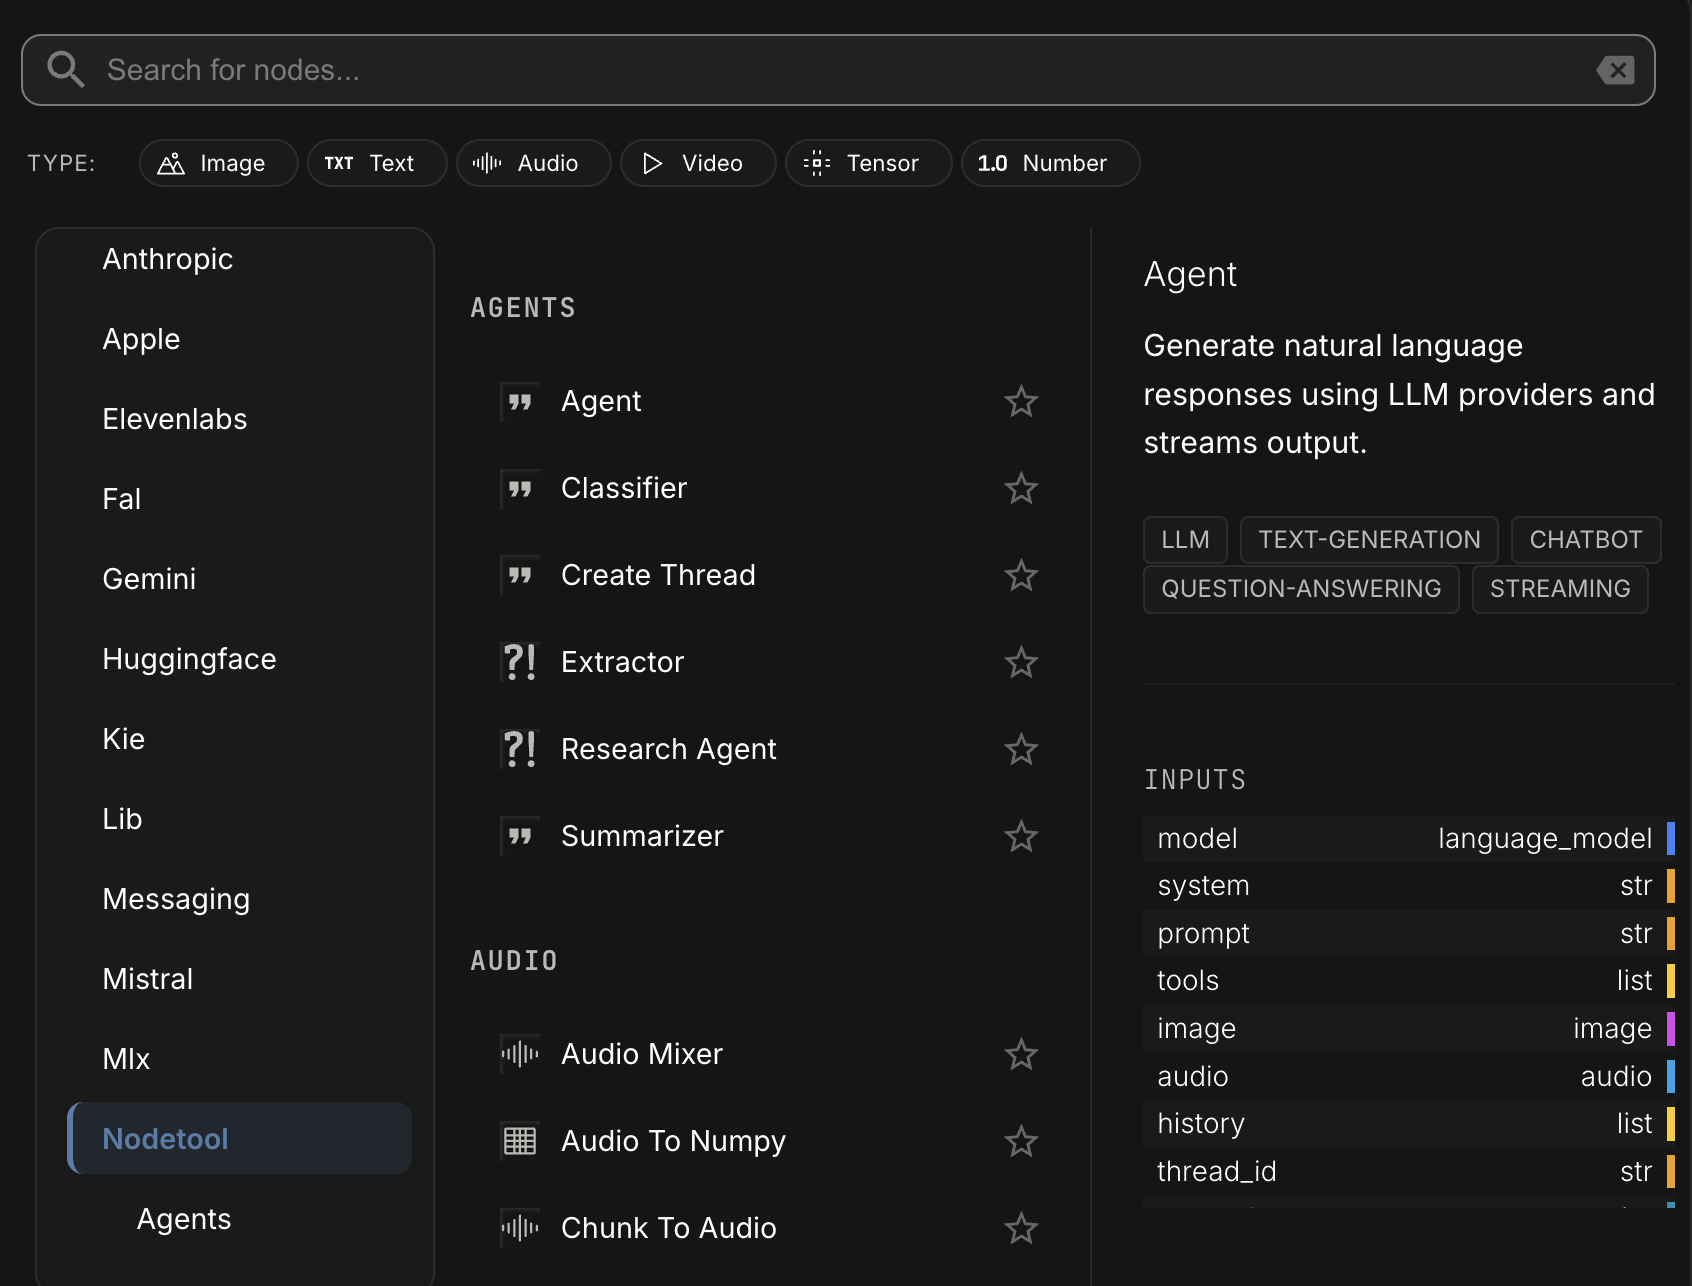
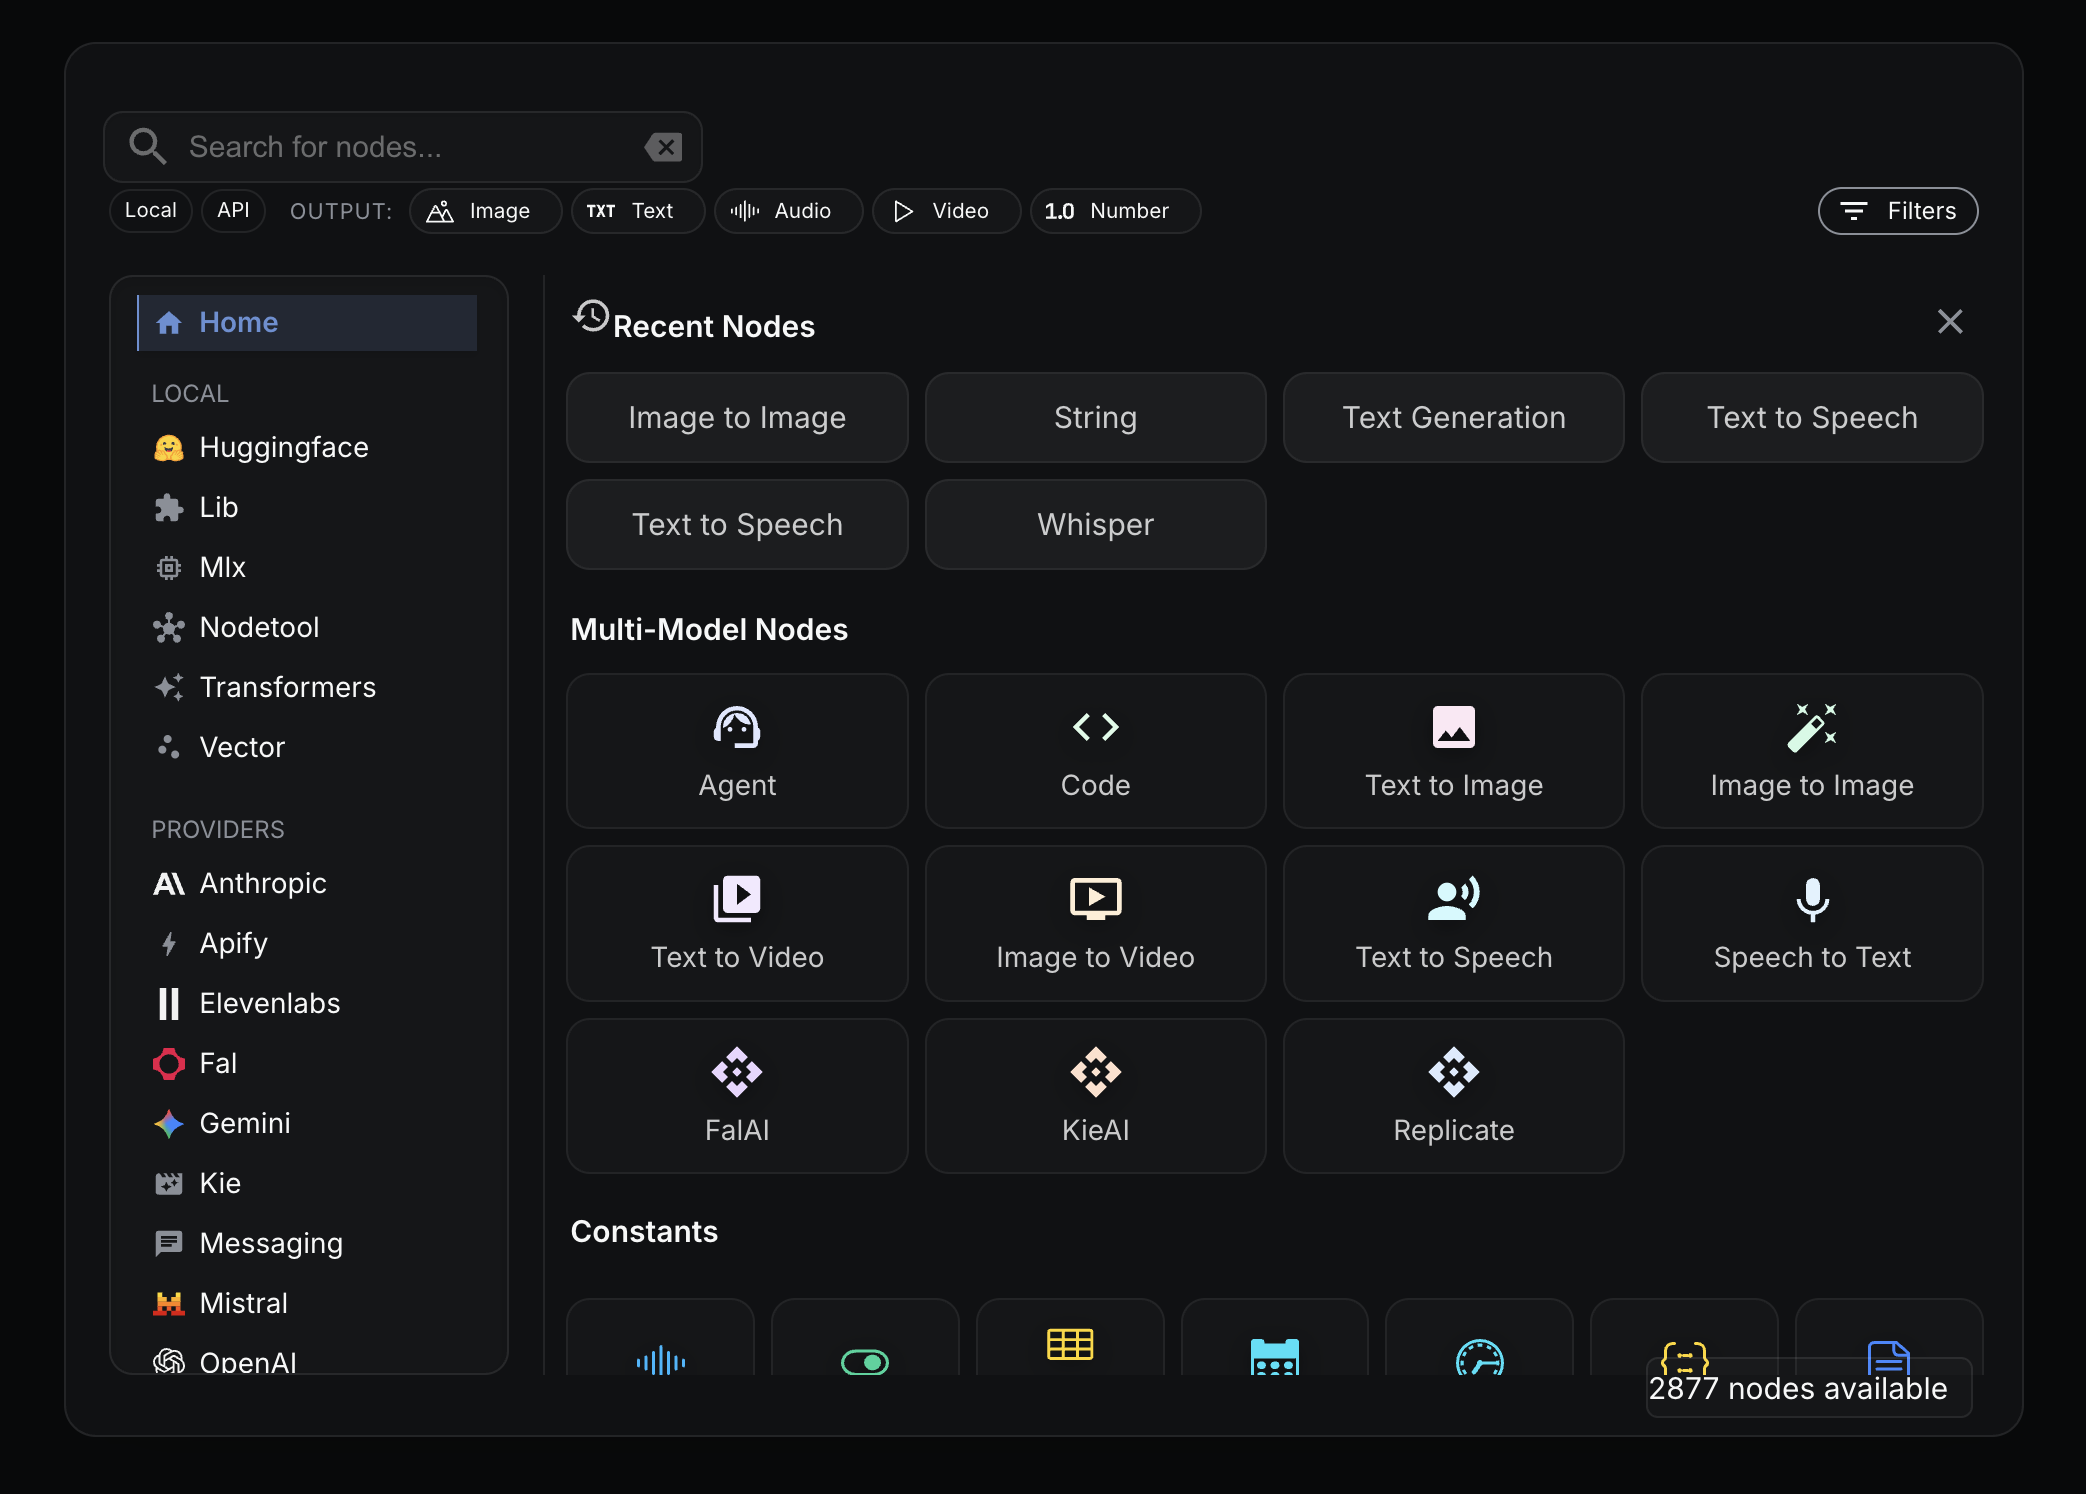
feat(marketing): refresh node-menu screenshot and drop duplicate chrome
The new screenshot ships its own chrome and search bar, so the wrapper's
mock browser bar no longer adds anything.

diff --git a/marketing/src/components/NodeMenuSection.tsx b/marketing/src/components/NodeMenuSection.tsx
@@ -3,7 +3,7 @@ import React from "react";
 import Image from "next/image";
 import { motion } from "framer-motion";
 import Tilt3D from "./Tilt3D";
-import { Cpu, Database, Image as ImageIcon, Search, Box } from "lucide-react";
+import { Cpu, Database, Image as ImageIcon, Box } from "lucide-react";
 
 interface NodeMenuSectionProps {
   reducedMotion?: boolean;
@@ -66,28 +66,14 @@ export default function NodeMenuSection({
           className="relative mx-auto max-w-5xl mb-20"
         >
           <Tilt3D>
-            <div className="relative rounded-xl border border-white/10 bg-slate-900/50 backdrop-blur-xl shadow-2xl overflow-hidden group">
+            <div className="relative rounded-2xl border border-white/10 bg-slate-900/30 shadow-2xl overflow-hidden group">
               <div className="absolute inset-0 bg-gradient-to-tr from-blue-500/5 to-purple-500/5 pointer-events-none" />
-              
-              {/* Browser/Window Chrome */}
-              <div className="flex items-center gap-2 px-4 py-3 border-b border-white/5 bg-slate-900/80">
-                <div className="w-3 h-3 rounded-full bg-red-500/20 border border-red-500/50" />
-                <div className="w-3 h-3 rounded-full bg-yellow-500/20 border border-yellow-500/50" />
-                <div className="w-3 h-3 rounded-full bg-green-500/20 border border-green-500/50" />
-                
-                {/* Mock Search Bar */}
-                <div className="ml-4 flex items-center gap-2 px-3 py-1 rounded-md bg-slate-800/50 border border-white/5 text-xs text-slate-500 w-64">
-                  <Search className="w-3 h-3" />
-                  <span>Search nodes...</span>
-                </div>
-              </div>
-
               <Image
                 src="/screen_nodemenu.png"
                 alt="Node menu showing all available node types"
-                width={1400}
-                height={900}
-                className="w-full h-auto opacity-90 transition-opacity group-hover:opacity-100"
+                width={2086}
+                height={1490}
+                className="w-full h-auto opacity-95 transition-opacity group-hover:opacity-100"
                 loading="lazy"
               />
             </div>
